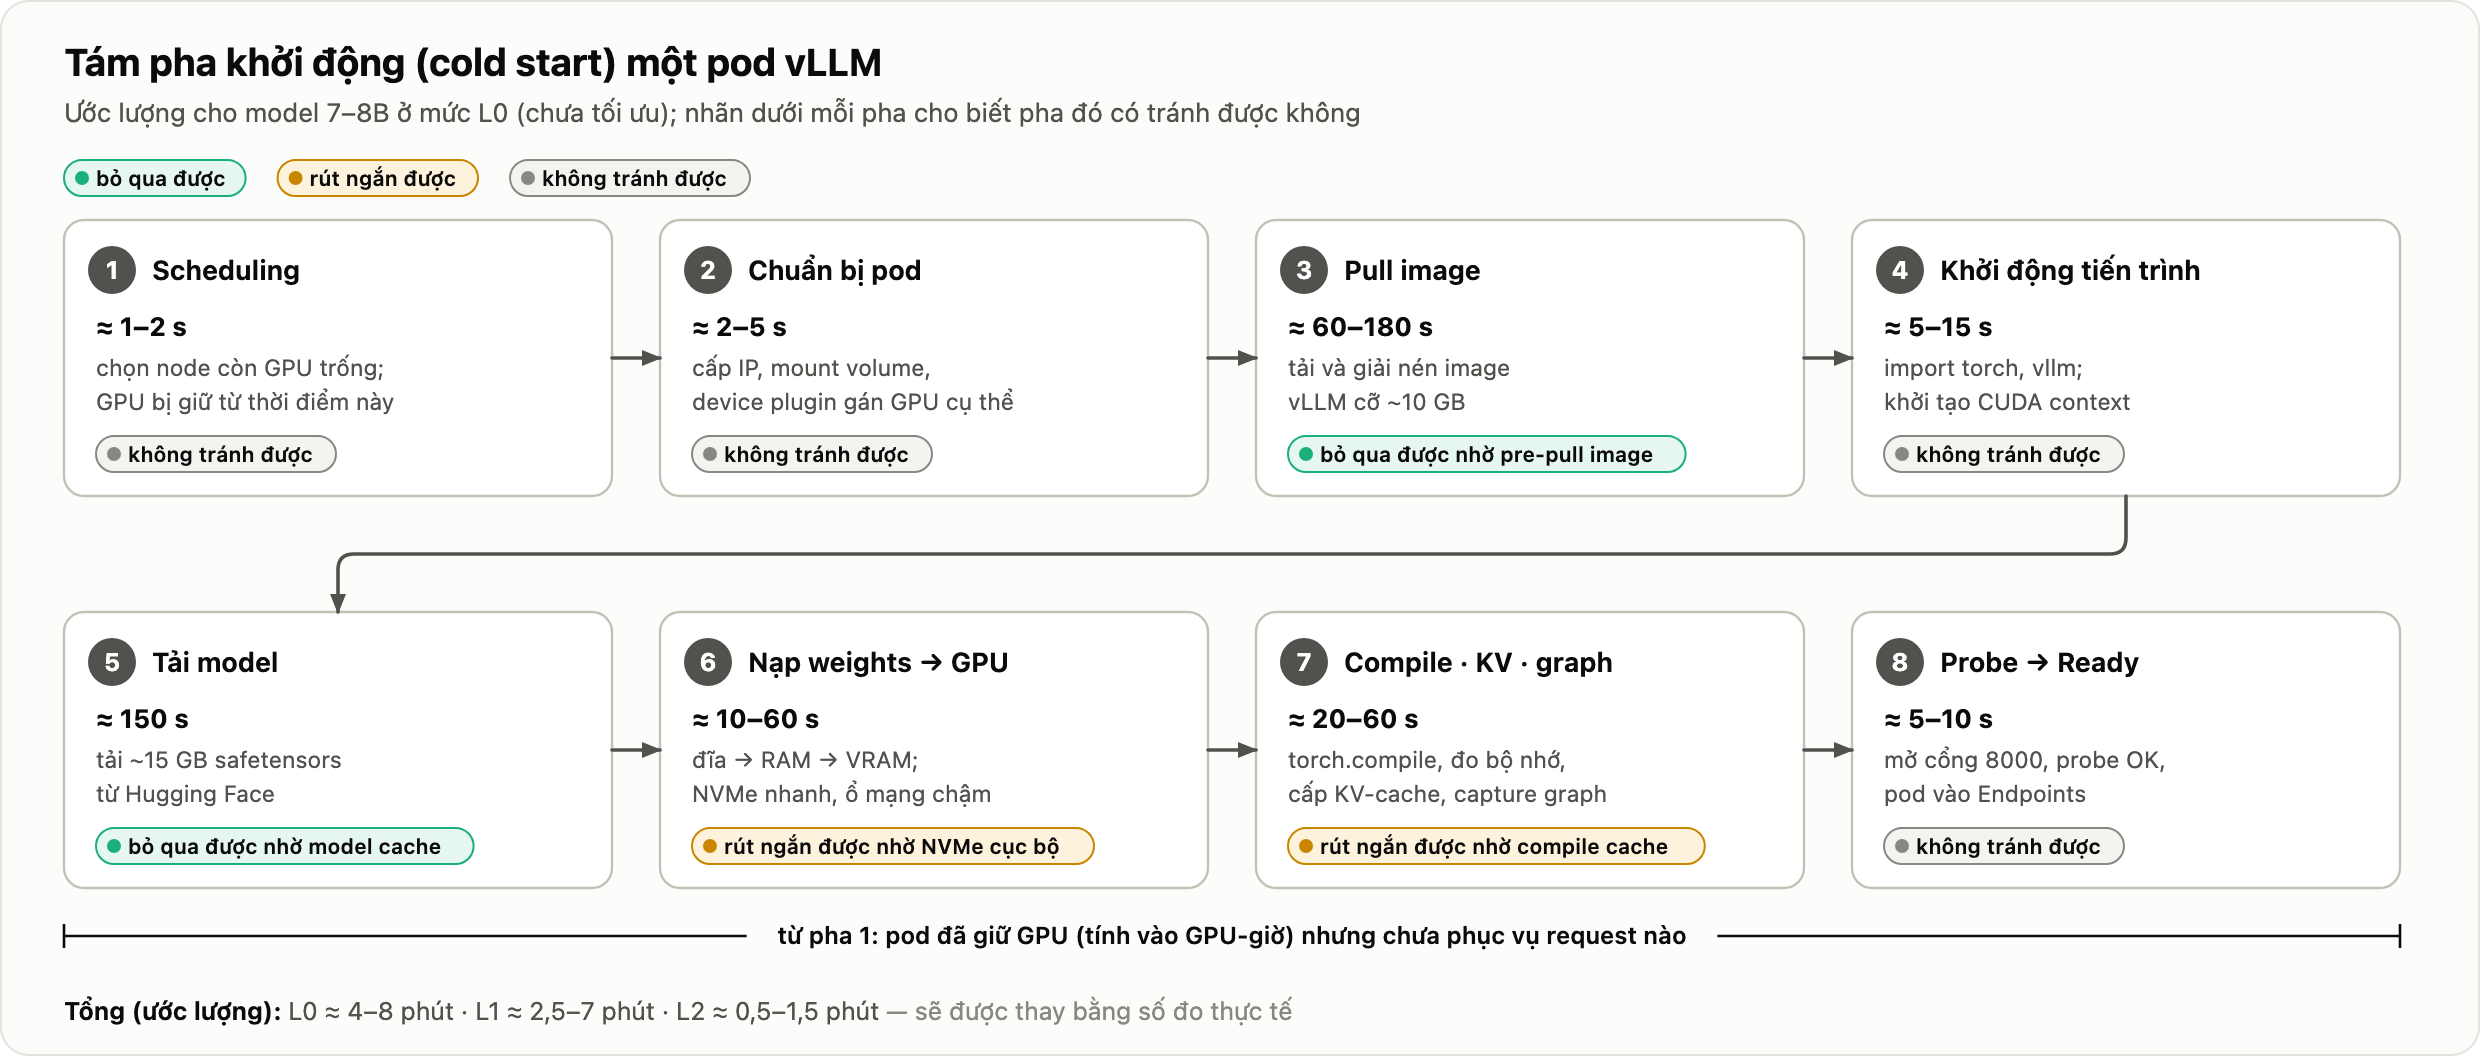
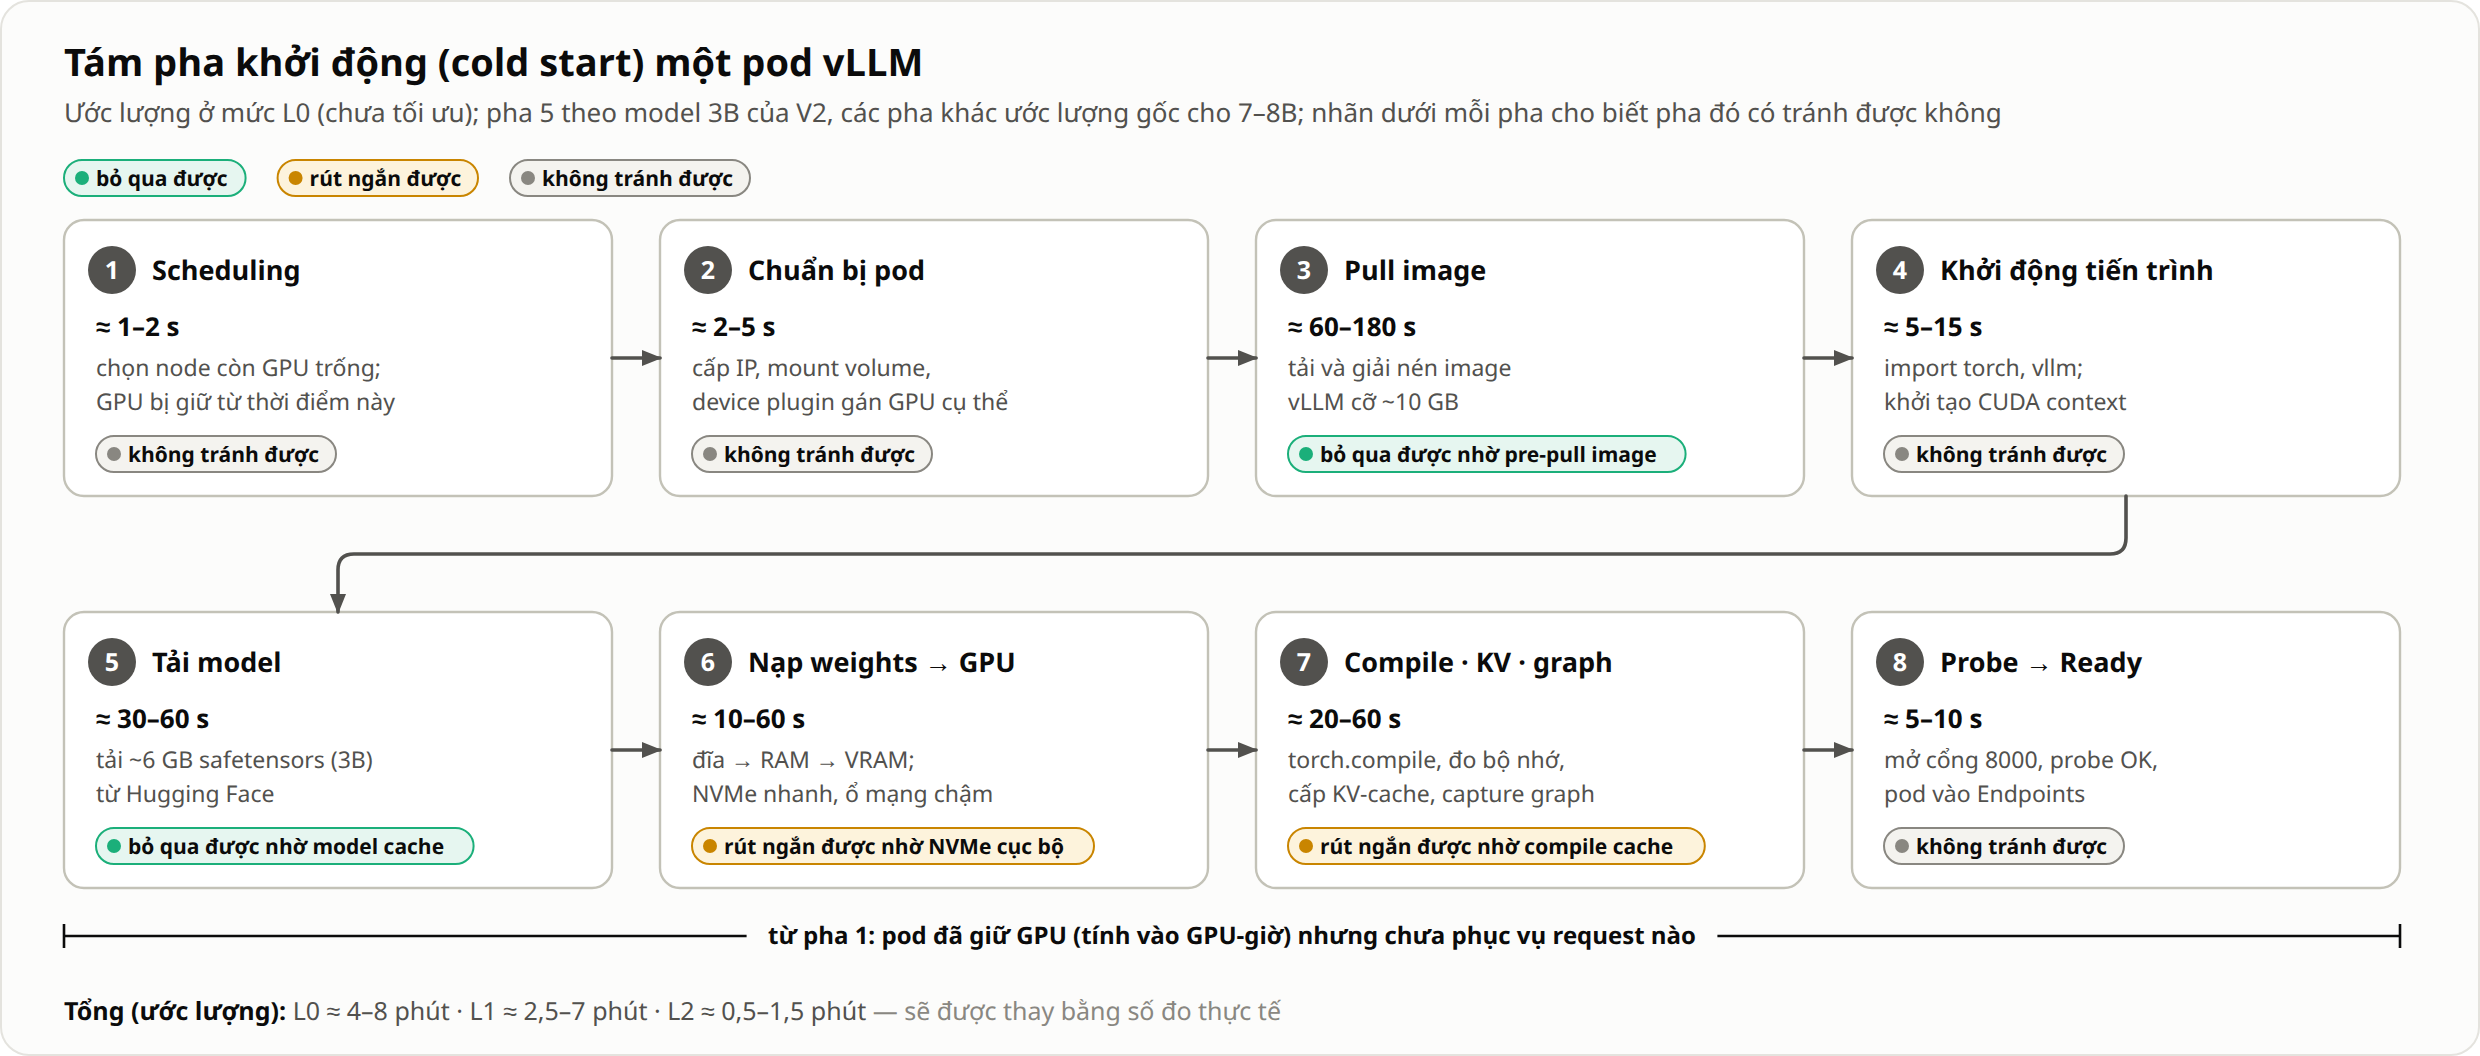
docs: switch the VRAM, decode and model-download examples from 7B to the measured 3B on RTX A4000

diff --git a/docs/diagrams/chuyen_sau.py b/docs/diagrams/chuyen_sau.py
@@ -137,7 +137,7 @@ def fig_coldstart_detail():
     s = Svg(W, H, "Tám pha khởi động một pod vLLM: scheduling, chuẩn bị pod, pull image, khởi động tiến trình, "
                   "tải model, nạp weights, compile và CUDA graph, probe; pod giữ GPU suốt quá trình")
     s.header("Tám pha khởi động (cold start) một pod vLLM",
-             "Ước lượng cho model 7–8B ở mức L0 (chưa tối ưu); nhãn dưới mỗi pha cho biết pha đó có tránh được không")
+             "Ước lượng ở mức L0 (chưa tối ưu); pha 5 theo model 3B của V2, các pha khác ước lượng gốc cho 7–8B; nhãn dưới mỗi pha cho biết pha đó có tránh được không")
     cats = {"skip": ("bỏ qua được", AQUA, AQUA_T), "short": ("rút ngắn được", "#c98500", YELLOW_T),
             "none": ("không tránh được", MUTED, GRAY_T)}
     x = 32
@@ -149,7 +149,7 @@ def fig_coldstart_detail():
         ("Chuẩn bị pod", "≈ 2–5 s", ["cấp IP, mount volume,", "device plugin gán GPU cụ thể"], "none", None),
         ("Pull image", "≈ 60–180 s", ["tải và giải nén image", "vLLM cỡ ~10 GB"], "skip", "nhờ pre-pull image"),
         ("Khởi động tiến trình", "≈ 5–15 s", ["import torch, vllm;", "khởi tạo CUDA context"], "none", None),
-        ("Tải model", "≈ 150 s", ["tải ~15 GB safetensors", "từ Hugging Face"], "skip", "nhờ model cache"),
+        ("Tải model", "≈ 30–60 s", ["tải ~6 GB safetensors (3B)", "từ Hugging Face"], "skip", "nhờ model cache"),
         ("Nạp weights → GPU", "≈ 10–60 s", ["đĩa → RAM → VRAM;", "NVMe nhanh, ổ mạng chậm"], "short", "nhờ NVMe cục bộ"),
         ("Compile · KV · graph", "≈ 20–60 s", ["torch.compile, đo bộ nhớ,", "cấp KV-cache, capture graph"],
          "short", "nhờ compile cache"),

diff --git a/docs/chi-tiet/01-bai-toan-yeu-cau.md b/docs/chi-tiet/01-bai-toan-yeu-cau.md
@@ -27,24 +27,24 @@ Chi tiết từng pha nằm trong [Kiến thức nền §1](02-kien-thuc-nen.md#
 
 ### 1.2. VRAM bị chiếm vào đâu
 
-Lấy ví dụ một GPU 24 GB chạy Qwen2.5-7B-Instruct ở định dạng BF16, với `--gpu-memory-utilization 0.9`:
+Lấy đúng cấu hình của phiên đánh giá: một GPU RTX A4000 16 GB chạy Qwen2.5-3B-Instruct ở định dạng BF16, với `--gpu-memory-utilization 0.9`. Số liệu đo trong phiên V0+V1 ngày 08/11/2026:
 
 | Thành phần | Dung lượng | Ghi chú |
 |---|---|---|
-| Weights | ~15,2 GB | 7,6 tỷ tham số × 2 byte |
-| Bộ nhớ trung gian (activation), CUDA graph | ~1–2 GB | vLLM đo lúc khởi động |
-| **KV-cache** | **~4–5 GB** | Phần còn lại trong ngân sách 0,9 × 24 GB |
-| Phần chừa lại | ~2,4 GB | 10% VRAM không cấp phát |
+| Weights | ~5,8 GiB (≈ 6,2 GB) | 3,09 tỷ tham số × 2 byte |
+| Bộ nhớ trung gian (activation), CUDA graph | ~1,4 GiB | Phần còn lại sau khi trừ weights và KV-cache khỏi ngân sách |
+| **KV-cache** | **7,28 GiB** | vLLM báo lúc khởi động; phần còn lại trong ngân sách 0,9 × 16 GiB ≈ 14,4 GiB |
+| Phần chừa lại | ~1,6 GiB | 10% VRAM không cấp phát |
 
-Mỗi token trong KV-cache của Qwen2.5-7B chiếm khoảng 56 KiB (cách tính ở [Kiến thức nền §1.3](02-kien-thuc-nen.md#13-kv-cache)). Vậy 4,5 GB KV-cache chứa được khoảng **80 nghìn token**. Nếu mỗi request dài trung bình 1.000 token (prompt cộng câu trả lời), một GPU chỉ giữ được khoảng **80 request cùng lúc**. Request thứ 81 phải chờ trong hàng đợi.
+Mỗi token trong KV-cache của Qwen2.5-3B chiếm 36 KiB (cách tính ở [Kiến thức nền §1.3](02-kien-thuc-nen.md#13-kv-cache)). Vậy 7,28 GiB KV-cache chứa được **211.936 token** (vLLM báo đúng con số này). Nếu mỗi request dài trung bình 1.000 token (prompt cộng câu trả lời), KV-cache đủ cho khoảng **210 request cùng lúc**. Trên thực tế giới hạn đến sớm hơn, từ tham số `--max-num-seqs` = 64: request thứ 65 phải chờ trong hàng đợi dù KV-cache còn trống (ở ĐG1 thử, lúc hàng đợi bắt đầu dài thì KV-cache mới dùng 18,5 %). Với model lớn hơn trên cùng GPU, chẳng hạn 7B (weights 15,2 GB), KV-cache mới là giới hạn: 7B thậm chí không vừa GPU 16 GB.
 
 ### 1.3. Vì sao "số request đồng thời" là đơn vị tiền tệ của LLM serving
 
-Pha decode bị **giới hạn bởi băng thông bộ nhớ**: mỗi bước phải đọc toàn bộ 15 GB weights, bất kể batch có 1 request hay 32 request.
+Pha decode bị **giới hạn bởi băng thông bộ nhớ**: mỗi bước phải đọc toàn bộ ~6,2 GB weights, bất kể batch có 1 request hay 32 request.
 
-Ví dụ trên GPU A10 (băng thông khoảng 600 GB/s), một bước decode mất tối thiểu khoảng 15,2 GB ÷ 600 GB/s ≈ **25 ms**:
-- Batch chỉ có 1 request: khoảng 40 token/s cho cả GPU.
-- Batch 32 request: gần 32 × 35 ≈ **1.100 token/s**. Thời gian mỗi bước tăng không đáng kể vì vẫn chỉ đọc weights một lần.
+Trên RTX A4000 (băng thông khoảng 448 GB/s), một bước decode mất tối thiểu khoảng 6,17 GB ÷ 448 GB/s ≈ **13,8 ms**. Đo ngày 08/11/2026 bằng `vllm bench serve` (input 512, output 256 token):
+- 1 request đồng thời: mỗi bước 17,2 ms, khoảng **57 token/s** cho cả GPU.
+- 32 request đồng thời: mỗi bước 25,1 ms, tổng **1.121 token/s**, gấp khoảng 20 lần. Thời gian mỗi bước chỉ tăng 46 % trong khi số request tăng 32 lần, vì vẫn chỉ đọc weights một lần.
 
 Như vậy **gộp nhiều request vào cùng một batch** là cách duy nhất để khai thác GPU hiệu quả. Khi số request vượt quá khả năng chứa của batch và KV-cache, request mới phải chờ. Đây là lý do đồ án chọn **số request đồng thời** làm tín hiệu scale chính (cấu hình A2, xem [Kiến trúc §10](03-kien-truc-autoscaling.md#10-phân-tích-từng-metric)).
 
@@ -129,7 +129,7 @@ Trên giấy, autoscaling tiết kiệm **50%** chi phí so với Static-max. Nh
 
 | Đặc điểm | Web service thông thường | LLM inference trên GPU |
 |---|---|---|
-| Thời gian khởi động một replica | Vài giây | **1–8 phút**: pull image ~10 GB, nạp weights ~15 GB, compile và CUDA graph |
+| Thời gian khởi động một replica | Vài giây | **1–8 phút**: pull image ~10 GB, nạp weights ~6 GB (3B), compile và CUDA graph |
 | Metric phản ánh tải | CPU utilization phản ánh khá tốt | GPU utilization **bão hoà sớm**; VRAM luôn ở mức ~90% vì vLLM cấp phát trước |
 | Đơn vị tài nguyên | CPU chia nhỏ được (millicore) | Nguyên một GPU cho mỗi replica |
 | Thời gian xử lý một request | Mili-giây, khá đồng đều | Vài giây đến vài chục giây, phụ thuộc độ dài prompt và output |
@@ -140,7 +140,7 @@ Trên giấy, autoscaling tiết kiệm **50%** chi phí so với Static-max. Nh
 Vì vậy không thể áp nguyên công thức quen thuộc "HPA theo CPU 70%, rolling update mặc định" cho LLM.
 
 ### 5.2. Cold start tính bằng phút
-Một pod web thông thường sẵn sàng sau vài giây. Một pod vLLM phải pull image khoảng 10 GB, tải và nạp khoảng 15 GB weights, rồi compile và capture CUDA graph, tổng cộng **từ 1 đến 8 phút** (Hình 12). Trong khoảng thời gian đó, tải tăng đột ngột sẽ dồn hết lên các replica hiện có. → Chi tiết ở [Kiến trúc §7](03-kien-truc-autoscaling.md#7-cold-start-chi-tiết).
+Một pod web thông thường sẵn sàng sau vài giây. Một pod vLLM phải pull image khoảng 10 GB, tải và nạp khoảng 6 GB weights (model 3B; 15 GB với 7B), rồi compile và capture CUDA graph, tổng cộng **từ 1 đến 8 phút** (Hình 12). Trong khoảng thời gian đó, tải tăng đột ngột sẽ dồn hết lên các replica hiện có. → Chi tiết ở [Kiến trúc §7](03-kien-truc-autoscaling.md#7-cold-start-chi-tiết).
 
 ### 5.3. Metric quen thuộc chỉ sai hướng
 - **VRAM:** vLLM cấp phát trước khoảng 90% VRAM ngay khi khởi động, nên metric bộ nhớ gần như là một đường thẳng.

diff --git a/docs/chi-tiet/03-kien-truc-autoscaling.md b/docs/chi-tiet/03-kien-truc-autoscaling.md
@@ -261,7 +261,7 @@ L2 là cấu hình vận hành; đồ án đo L0 và L2 để biết rút ngắn
 
 **Pha 4. Khởi động tiến trình (≈ 5–15 s).** Chạy `vllm serve`: import `torch`/`vllm` (nặng), đọc tham số, khởi tạo CUDA context, tạo tiến trình EngineCore.
 
-**Pha 5. Tải model (≈ 150 s, hoặc 0 s).** Chỉ xảy ra khi `--model` là tên repo trên Hugging Face và chưa có cache. Qwen2.5-7B gồm khoảng 15 GB file safetensors (4 shard); ở 100 MB/s mất khoảng 150 s. Log: `Time spent downloading weights for … seconds` (chỉ in khi tải mất hơn 0,5 s).
+**Pha 5. Tải model (≈ 30–60 s, hoặc 0 s).** Chỉ xảy ra khi `--model` là tên repo trên Hugging Face và chưa có cache. Qwen2.5-3B gồm khoảng 5,8 GB file safetensors; ở 100 MB/s mất khoảng 60 s. Đo ngày 08/11/2026: VM 4 × A4000 tải mất 27 s, máy 2 × 5060 Ti (mạng chỉ ~8 MB/s) mất 690 s ([nhật ký vận hành](../nhat-ky/van-hanh.md)). Model 7B (~15 GB) sẽ mất khoảng 2,5 lần. Log: `Time spent downloading weights for … seconds` (chỉ in khi tải mất hơn 0,5 s).
 
 **Pha 6. Nạp weights vào GPU (≈ 10–60 s).** Đọc file từ đĩa lên RAM, rồi copy qua PCIe vào VRAM. Tốc độ phụ thuộc chủ yếu vào ổ đĩa: NVMe cục bộ (2–3 GB/s) mất khoảng 10 s; NFS (100–300 MB/s) mất 50–150 s. Log có dòng `Loading weights took … seconds` (không gồm thời gian tải ở pha 5) và `Model loading took … GiB memory and … seconds` (gồm cả pha 5).
 
@@ -738,7 +738,7 @@ KServe thêm nhiều tầng (Knative, activator, CRD riêng). Các tầng này l
 Khi pod rất tải, `/health` có thể trả chậm. Liveness quá gắt sẽ **kill một pod đang làm việc** ngay lúc cần nó nhất, gây thêm một lần cold start.
 
 **Sao không cho mọi pod đọc chung model qua NFS cho gọn?**
-Hoàn toàn được (mức L1), và đây là cách phổ biến trong cluster nhiều node. Nhưng nạp 15 GB qua mạng chậm hơn NVMe nhiều. Trên một máy thuê, nhóm không có ổ mạng tương đương để đo L1, nên chỉ so L0 với L2.
+Hoàn toàn được (mức L1), và đây là cách phổ biến trong cluster nhiều node. Nhưng nạp ~6 GB weights (15 GB với 7B) qua mạng chậm hơn NVMe nhiều. Trên một máy thuê, nhóm không có ổ mạng tương đương để đo L1, nên chỉ so L0 với L2.
 
 **Sao không kết hợp nhiều metric trong một ScaledObject?**
 KEDA hỗ trợ nhiều trigger, và HPA sẽ lấy giá trị desired **lớn nhất** trong các trigger. Khi đánh giá, nhóm tách riêng từng metric để thấy rõ hành vi của mỗi loại. Kết hợp A2 với một trigger theo TTFT là hướng mở rộng E6.
